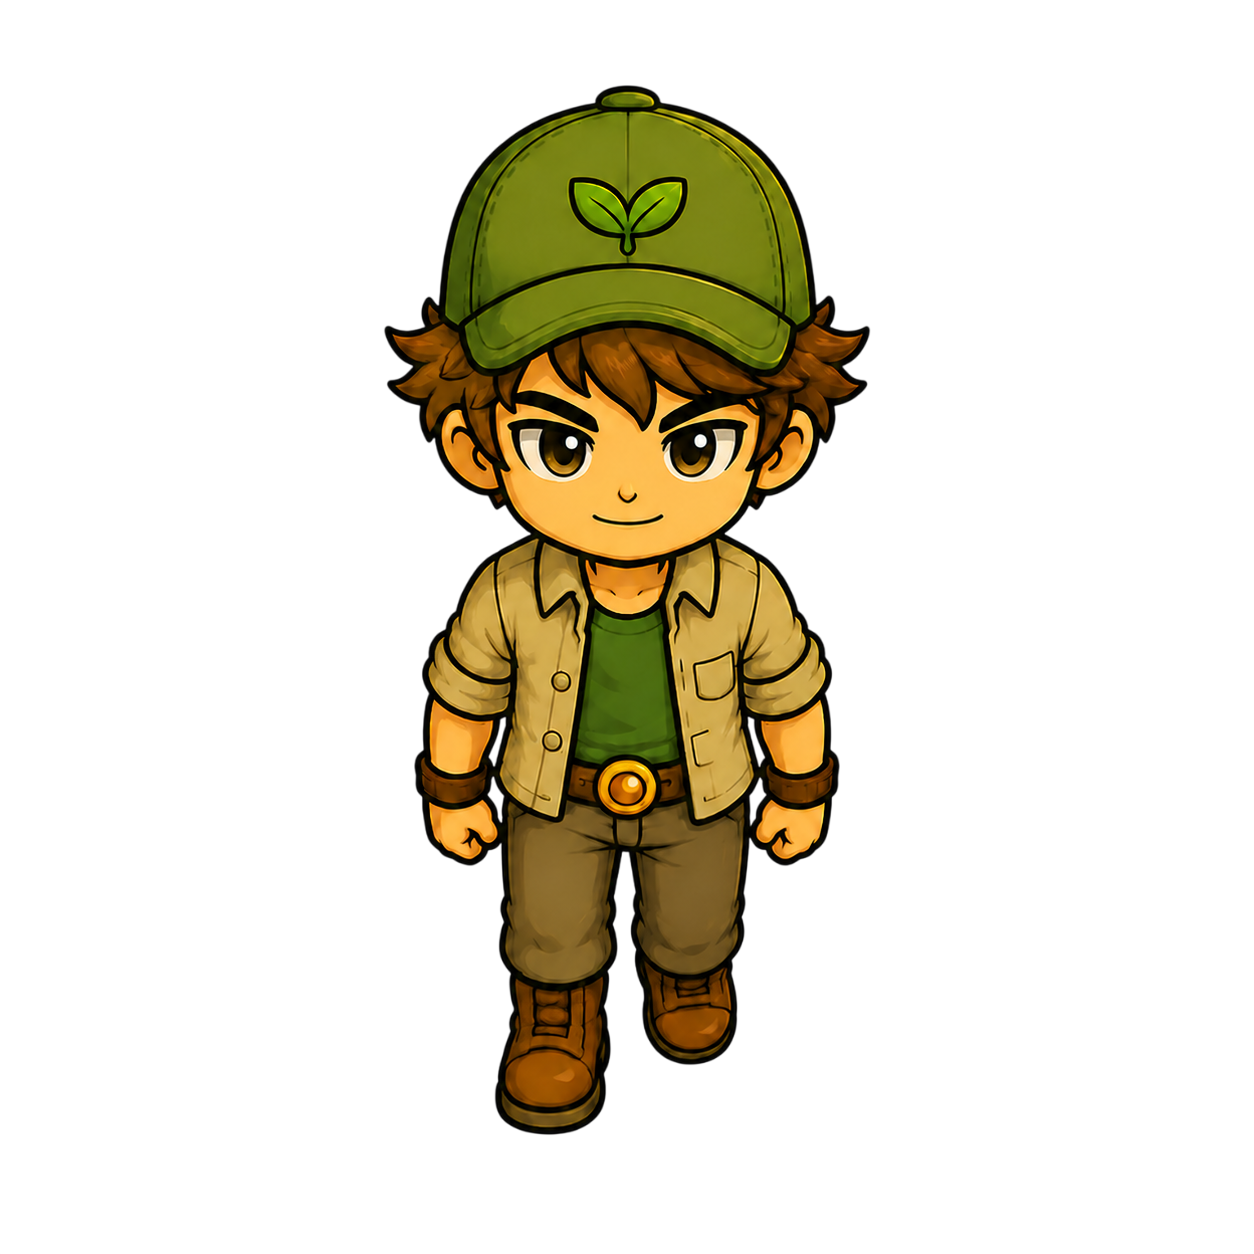
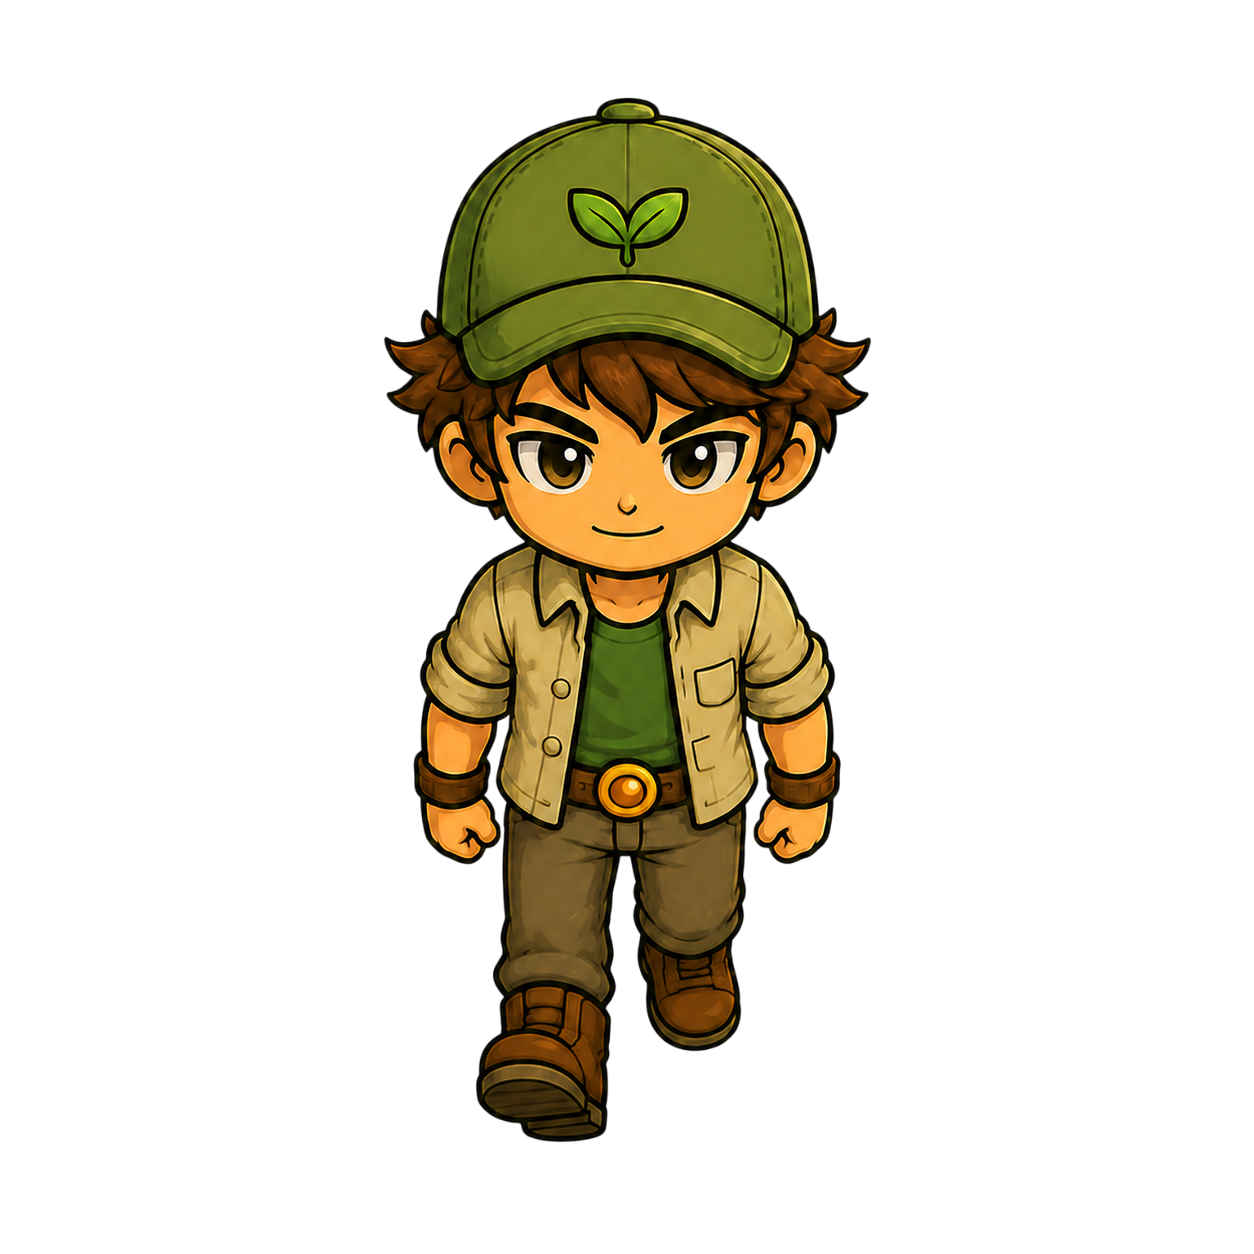
inicio menu

Changed region(s): [[0.311, 0.0622, 0.7153, 0.933]]

diff --git a/core/src/main/java/com/juego/progra/Mapas/MapasNiveles.java b/core/src/main/java/com/juego/progra/Mapas/MapasNiveles.java
@@ -228,10 +228,8 @@ public class MapasNiveles {
     }
 
     public void actualizarDañoArbusto(Objetos obj) {
-        if (obj.tiempoDañado >= TIEMPO_PARA_ROMPER * (2f/3f)) {
+        if (obj.tiempoDañado >= TIEMPO_PARA_ROMPER * 0.5f) {
             obj.imagen = arbustoDano2;
-        } else if (obj.tiempoDañado >= TIEMPO_PARA_ROMPER * (1f/3f)) {
-            obj.imagen = arbustoDano1;
         }
     }
 
@@ -272,57 +270,47 @@ public class MapasNiveles {
         return masCercano;
     }
         //ESTO NO FUNCIONA AUN :C
-    public void dispararLinea(float centroX, float centroY, String direccion) {
-        float dx = 0, dy = 0;
-        switch (direccion) {
-            case "derecha": dx = 1; break;
-            case "izquierda": dx = -1; break;
-            case "arriba": dy = 1; break;
-            case "abajo": dy = -1; break;
-        }
-
-        float paso = 5f;
-        float alcanceMax = 70 * 5;
-
-        for (float recorrido = paso; recorrido <= alcanceMax; recorrido += paso) {
-            float cx = centroX + dx * recorrido;
-            float cy = centroY + dy * recorrido;
-
-            Rectangle celdaDeteccion;
-            if (dx != 0) {
-                celdaDeteccion = new Rectangle(cx - 10, centroY - 10, 20, 20);
-            } else {
-                celdaDeteccion = new Rectangle(centroX - 10, cy - 10, 20, 20);
+        public void dispararLinea(float centroX, float centroY, String direccion) {
+            float dx = 0, dy = 0;
+            switch (direccion) {
+                case "derecha": dx = 1; break;
+                case "izquierda": dx = -1; break;
+                case "arriba": dy = 1; break;
+                case "abajo": dy = -1; break;
             }
 
-            Objetos bloqueante = obtenerArbustoEnDireccion(celdaDeteccion, centroX, centroY, dx, dy);
-            if (bloqueante != null) {
-                bloqueante.tiempoDañado += TIEMPO_PARA_ROMPER / 3f;
-                actualizarDañoArbusto(bloqueante);
-                if (bloqueante.tiempoDañado >= TIEMPO_PARA_ROMPER) {
-                    romperArbusto(bloqueante);
+            float centroYAjustado = Math.max(LIMITE_ABAJO + 35, Math.min(centroY, LIMITE_ARRIBA - 35));
+            float centroXAjustado = Math.max(LIMITE_IZQ + 35, Math.min(centroX, LIMITE_DER - 35));
+
+            for (int i = 1; i <= 5; i++) {
+                float distancia = 70f * i;
+                float px, py;
+                if (dx != 0) {
+                    px = centroX + dx * distancia;
+                    py = centroYAjustado;
+                } else {
+                    px = centroXAjustado;
+                    py = centroY + dy * distancia;
                 }
-                return;
-            }
+                Rectangle celda = new Rectangle(px - 35, py - 35, 70, 70);
 
-            if (!CaminarCelda(celdaDeteccion)) {
-                return;
+                Objetos bloqueante = obtenerArbustoEnDireccion(celda, centroX, centroY, dx, dy);
+                if (bloqueante != null) {
+                    bloqueante.tiempoDañado += TIEMPO_PARA_ROMPER / 2f;
+                    actualizarDañoArbusto(bloqueante);
+                    if (bloqueante.tiempoDañado >= TIEMPO_PARA_ROMPER) {
+                        romperArbusto(bloqueante);
+                    }
+                    return;
+                }
+
+                if (CaminarCelda(celda)) {
+                    Listaobjetos.add(new Objetos(arbusto, (int) (px - 35), (int) (py - 35), 70, 70, "arbusto"));
+                } else {
+                    return;
+                }
             }
         }
-
-        for (int i = 1; i <= 5; i++) {
-            float distancia = 70f * i;
-            float px = centroX + dx * distancia;
-            float py = centroY + dy * distancia;
-            Rectangle celdaCrear = new Rectangle(px - 35, py - 35, 70, 70);
-
-            if (CaminarCelda(celdaCrear)) {
-                Listaobjetos.add(new Objetos(arbusto, (int) (px - 35), (int) (py - 35), 70, 70, "arbusto"));
-            } else {
-                break;
-            }
-        }
-    }
 
     public void dipose() {
         arbusto.dispose();

diff --git a/core/src/main/java/com/juego/progra/Menu.java b/core/src/main/java/com/juego/progra/Menu.java
@@ -1,0 +1,64 @@
+package com.juego.progra;
+
+import com.badlogic.gdx.Game;
+import com.badlogic.gdx.Gdx;
+import com.badlogic.gdx.Input;
+import com.badlogic.gdx.Screen;
+import com.badlogic.gdx.graphics.GL20;
+import com.badlogic.gdx.graphics.Texture;
+import com.badlogic.gdx.graphics.g2d.BitmapFont;
+import com.badlogic.gdx.graphics.g2d.SpriteBatch;
+
+    public class Menu implements Screen {
+    private Game game;
+    private SpriteBatch batch;
+    private BitmapFont fuente;
+    private Texture fondo;
+
+    public Menu(Game game) {
+        this.game = game;
+    }
+
+    @Override
+    public void show() {
+        batch = new SpriteBatch();
+        fuente = new BitmapFont();
+        fuente.getData().setScale(3);
+        fondo = new Texture("Fondo.png");
+    }
+
+    @Override
+    public void render(float delta) {
+        Gdx.gl.glClearColor(0.15f, 0.15f, 0.15f, 1);
+        Gdx.gl.glClear(GL20.GL_COLOR_BUFFER_BIT);
+
+        batch.begin();
+        batch.draw(fondo, 0, 0, 1408, 768);
+        fuente.draw(batch, "GARDEN RESCUE", 500, 500);
+        fuente.draw(batch, "Presiona ENTER para jugar", 450, 300);
+        batch.end();
+
+        if (Gdx.input.isKeyJustPressed(Input.Keys.ENTER)) {
+            Gdx.app.log("MENU", "Se presiono jugar - falta conectar con JuegoScreen");
+        }
+    }
+
+    @Override
+    public void resize(int width, int height) {}
+
+    @Override
+    public void pause() {}
+
+    @Override
+    public void resume() {}
+
+    @Override
+    public void hide() {}
+
+    @Override
+    public void dispose() {
+        batch.dispose();
+        fuente.dispose();
+        fondo.dispose();
+    }
+}

diff --git a/core/src/main/java/com/juego/progra/Personajes/Personaje.java b/core/src/main/java/com/juego/progra/Personajes/Personaje.java
@@ -19,7 +19,7 @@ public abstract class Personaje {
     public abstract void actualizar(MapasNiveles mapa, float delta);
 
     public void dibujar (SpriteBatch batch) {
-        batch.draw(imagen, x, y, 125, 125); // Lo dibuja en su x, y con tamaño 50x50
+        batch.draw(imagen, x, y, 105, 105); // Lo dibuja en su x, y con tamaño 50x50
     }
     public void dispose() {
         if (imagen != null) {
